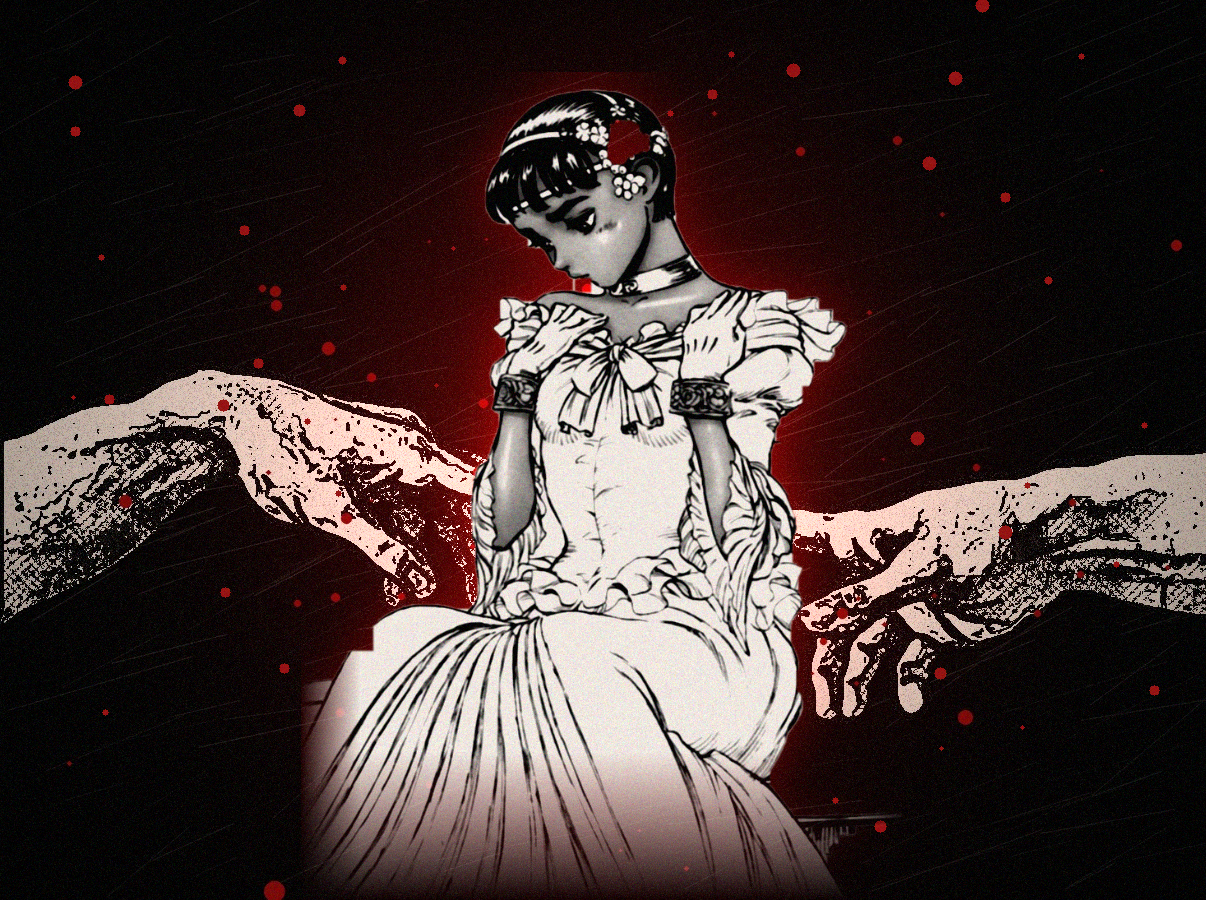
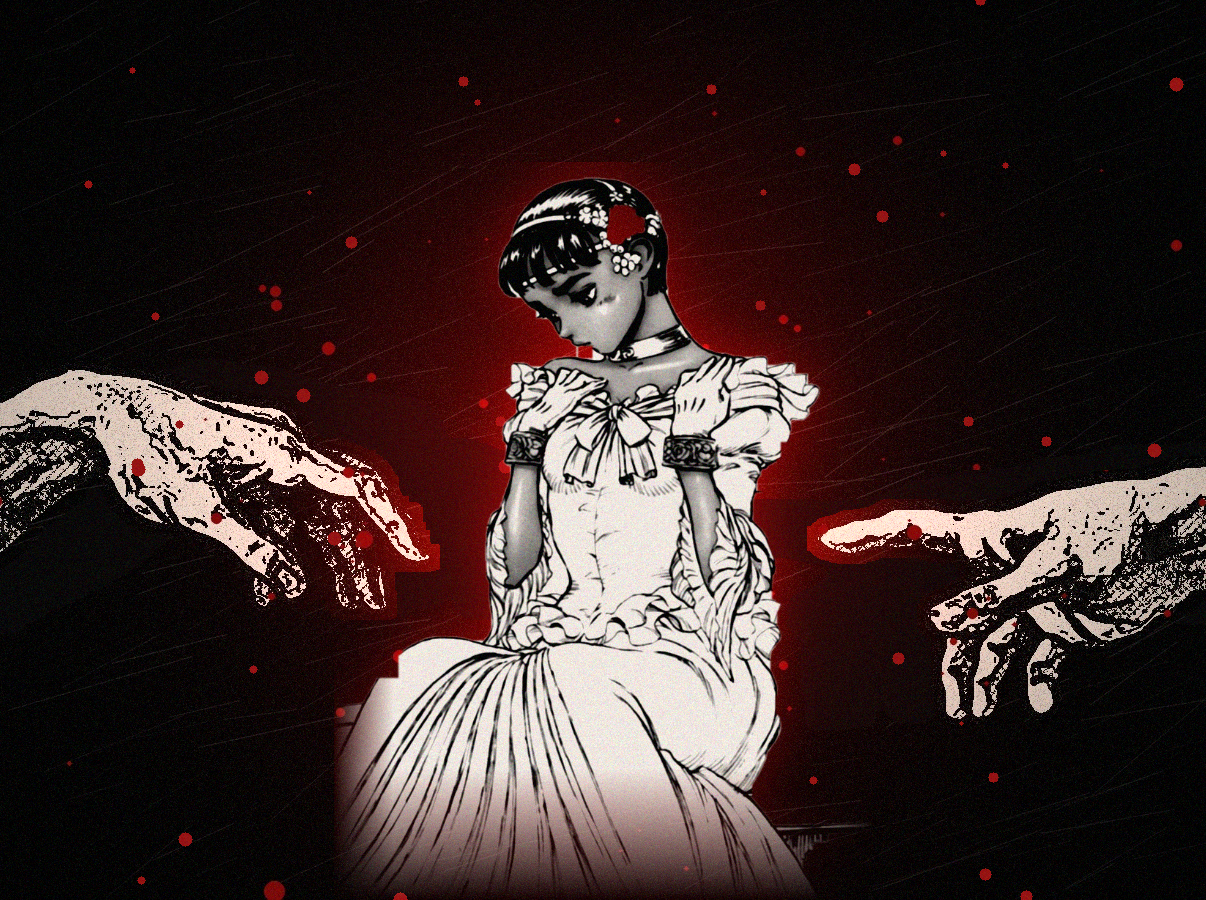
Separate hands and center character
Claude-Session: https://claude.ai/code/session_01PQGQVZaCihWYjjizwBYYdW

diff --git a/compose.py b/compose.py
@@ -25,9 +25,29 @@ ivory=np.array([225,232,240],np.float32)  # BGR marfil
 rgb=(ink[...,None]/255)*ivory
 rgb+=rng.normal(0,10,rgb.shape)
 # escala del personaje
-th=int(H*0.92); sc=th/h; tw=int(w*sc)
+th=int(H*0.82); sc=th/h; tw=int(w*sc)
 rgb=cv2.resize(np.clip(rgb,0,255).astype(np.uint8),(tw,th))
 a=cv2.resize(fg,(tw,th))
+# --- separar manos
+SHIFT=130
+gs=cv2.cvtColor(st,cv2.COLOR_BGR2GRAY)
+hm=cv2.dilate((gs>110).astype(np.uint8),np.ones((9,9),np.uint8))
+hm=cv2.morphologyEx(hm,cv2.MORPH_CLOSE,np.ones((25,25),np.uint8))
+n,lab,stats,_=cv2.connectedComponentsWithStats(hm)
+hands_m=np.zeros_like(hm)
+for i in range(1,n):
+    if stats[i,cv2.CC_STAT_AREA]>3000: hands_m[lab==i]=1
+hands_m=cv2.dilate(hands_m,np.ones((15,15),np.uint8))
+dark=np.full_like(st,9); dark=(dark+rng.normal(0,3,st.shape)).clip(0,255).astype(np.uint8)
+base=np.where(hands_m[...,None]>0,dark,st)
+new=base.copy()
+for side in (0,1):
+    m=hands_m.copy(); m[:, (W//2 if side==0 else 0):(W if side==0 else W//2)]=0
+    d=-SHIFT if side==0 else SHIFT
+    M=np.float32([[1,0,d],[0,1,0]])
+    sh=cv2.warpAffine(st,M,(W,H)); sm=cv2.warpAffine(m,M,(W,H))
+    new=np.where(sm[...,None]>0,sh,new)
+st=new
 # --- fondo: estilo original, limpiando el centro
 bg=st.astype(np.float32)
 # zona de brillo rojo en el centro
@@ -37,7 +57,7 @@ glow=np.exp(-(((xx-cx)/260)**2+((yy-cy)/300)**2))
 bg[...,2]+=glow*90
 # poner personaje centrado
 
-x0=cx-tw//2; y0=H-th
+bx=np.where(a.max(0)>128)[0]; x0=cx-(bx[0]+bx[-1])//2; y0=H-th
 canvas=bg.copy()
 for _ in range(45):
     x,y=int(rng.integers(0,W)),int(rng.integers(0,H)); r=int(rng.integers(2,8))
